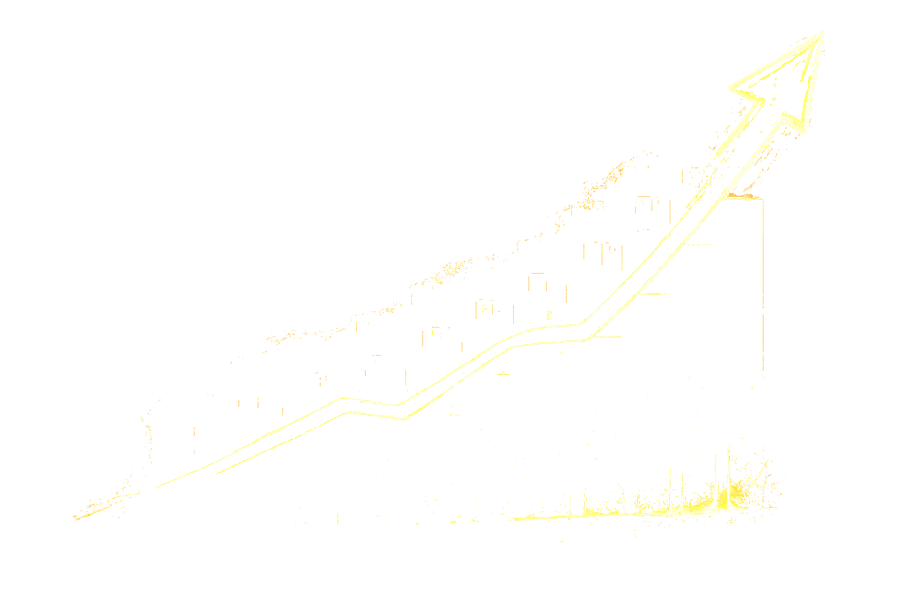
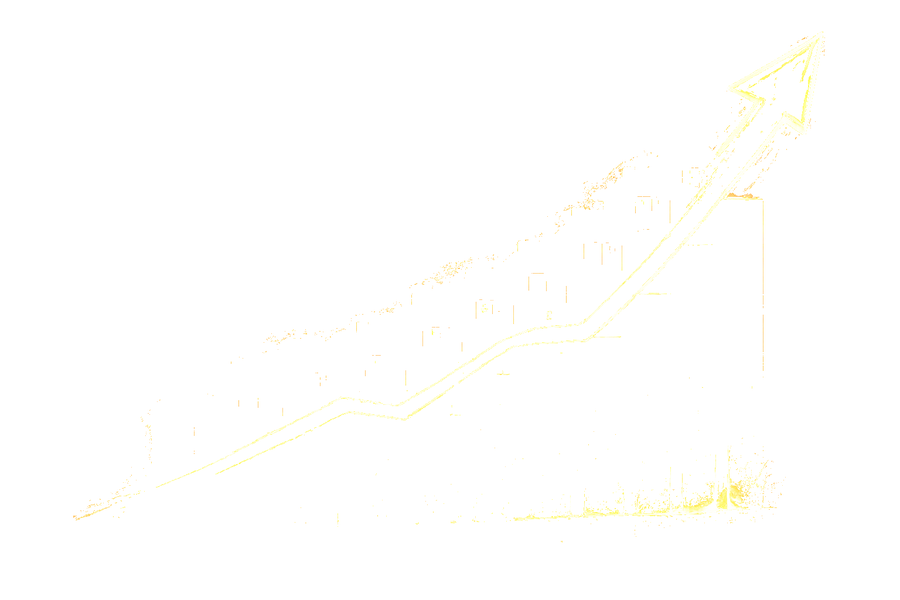
Transparent bg on hero image (whiteness-based alpha), arrow reveal slowed to 3.5s

diff --git a/client/src/pages/MogulDashboard.tsx b/client/src/pages/MogulDashboard.tsx
@@ -946,7 +946,7 @@ function RealEstateHero() {
         style={{ zIndex: 2 }}
         initial={{ clipPath: 'inset(0 100% 0 0)' }}
         animate={{ clipPath: 'inset(0 0% 0 0)' }}
-        transition={{ duration: 1.4, ease: [0.23, 1, 0.32, 1], delay: 0.3 }}
+        transition={{ duration: 3.5, ease: [0.23, 1, 0.32, 1], delay: 0.4 }}
       >
         <img
           src={mogulArrow}
@@ -963,7 +963,7 @@ function RealEstateHero() {
         className="absolute rounded-full"
         style={{ top: '6%', right: '16%', width: 30, height: 30, background: `radial-gradient(circle, ${C.gold}90, transparent)`, zIndex: 3 }}
         animate={{ scale: [1, 2.5, 1], opacity: [0.9, 0, 0.9] }}
-        transition={{ duration: 2, repeat: Infinity, delay: 1.8, ease: 'easeOut' }}
+        transition={{ duration: 2, repeat: Infinity, delay: 4.2, ease: 'easeOut' }}
       />
       {/* Bottom fade into card */}
       <div className="absolute inset-0" style={{ background: `linear-gradient(to bottom, transparent 50%, ${C.card} 100%)`, zIndex: 4 }} />
